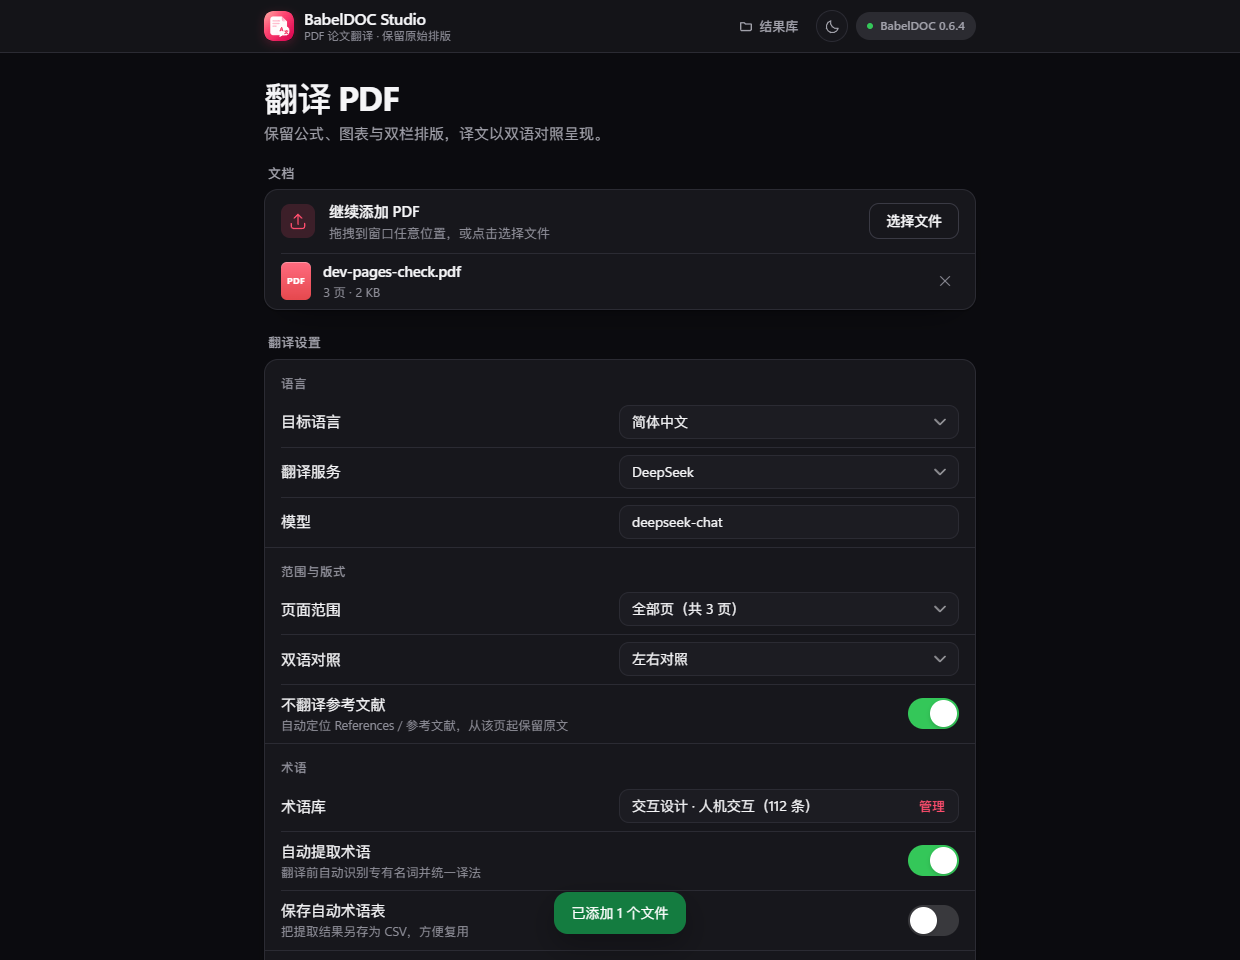
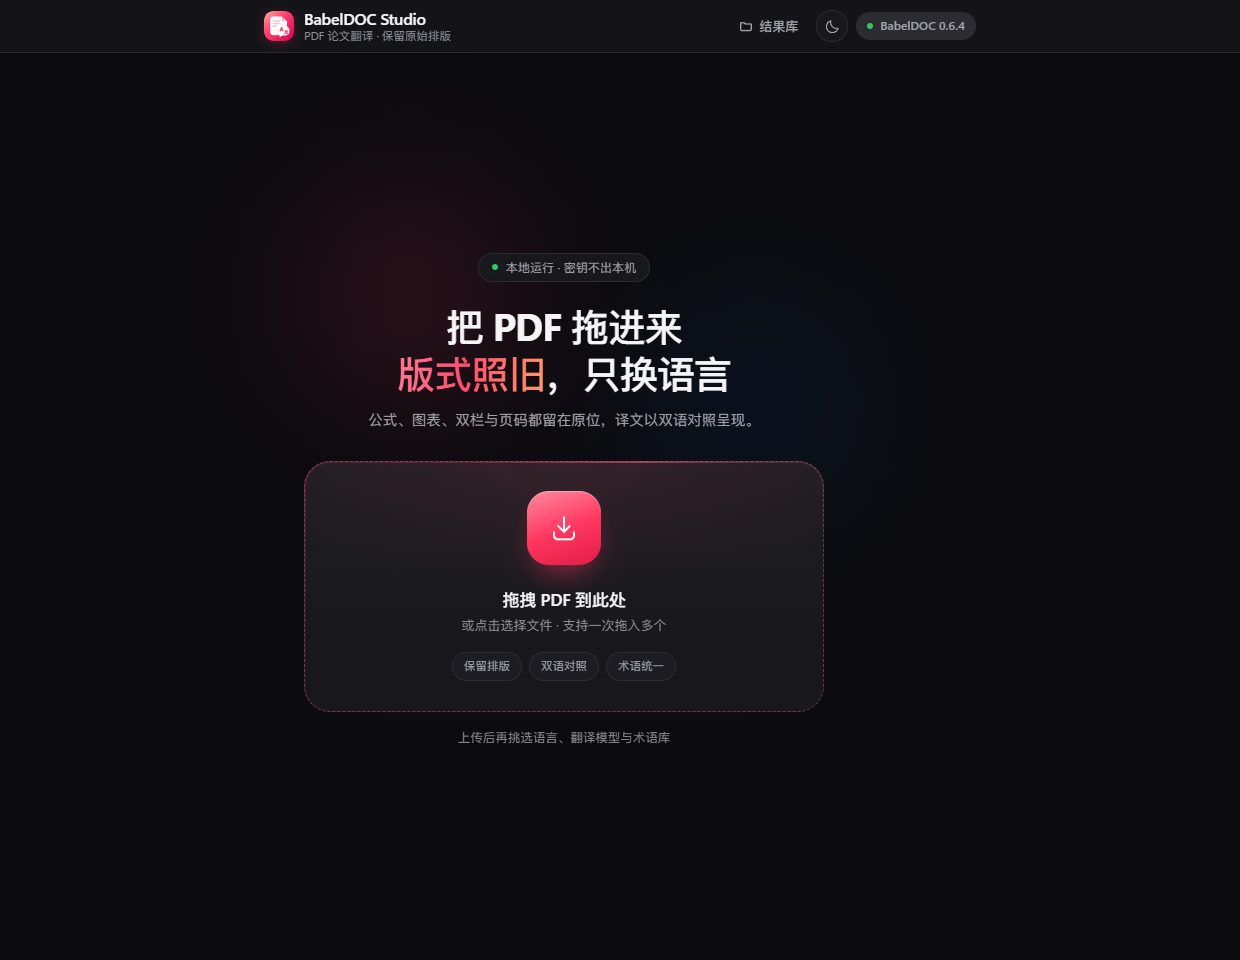
fix(home): 恢复大尺寸上传入口与标题，保留 HIG 框架

diff --git a/web/styles.css b/web/styles.css
@@ -1716,3 +1716,252 @@ input[type="search"]::-webkit-search-cancel-button { cursor: pointer; }
     scroll-behavior: auto !important;
   }
 }
+
+/* ==================================================================== *
+ * Entry hero — restored, richer drop target (the calm grouped version
+ * from 1.4 read as flat; this keeps the HIG chrome but brings back the
+ * large, inviting upload moment).
+ * ==================================================================== */
+@property --hero-angle {
+  syntax: "<angle>";
+  inherits: false;
+  initial-value: 0deg;
+}
+@keyframes hero-sweep {
+  to { --hero-angle: 360deg; }
+}
+@keyframes hero-bob {
+  0%, 100% { transform: translateY(0); }
+  50% { transform: translateY(-7px); }
+}
+@keyframes hero-drift {
+  0%, 100% { transform: translate3d(0, 0, 0) scale(1); }
+  50% { transform: translate3d(20px, -26px, 0) scale(1.09); }
+}
+
+body[data-stage="entry"] .page-head { display: none; }
+body[data-stage="entry"] .content {
+  justify-content: center;
+  padding-bottom: 40px;
+}
+
+.stage-entry .hero {
+  position: relative;
+  width: min(600px, 100%);
+  padding: 6px 0 4px;
+  display: grid;
+  justify-items: center;
+  gap: 0;
+  text-align: center;
+  isolation: isolate;
+}
+
+.stage-entry .hero-aura {
+  position: absolute;
+  inset: -70px -20px 0;
+  z-index: -1;
+  pointer-events: none;
+}
+.stage-entry .aura {
+  position: absolute;
+  border-radius: 50%;
+  filter: blur(66px);
+  opacity: 0.5;
+}
+.stage-entry .aura-a {
+  width: 300px;
+  height: 300px;
+  top: -30px;
+  left: 2%;
+  background: radial-gradient(circle, rgba(255, 55, 95, 0.5), transparent 68%);
+  animation: hero-drift 15s ease-in-out infinite;
+}
+.stage-entry .aura-b {
+  width: 260px;
+  height: 260px;
+  top: 100px;
+  right: 0;
+  background: radial-gradient(circle, rgba(10, 132, 255, 0.32), transparent 68%);
+  animation: hero-drift 19s ease-in-out infinite reverse;
+}
+
+.stage-entry .hero-badge {
+  display: inline-flex;
+  align-items: center;
+  gap: 8px;
+  height: 29px;
+  padding: 0 13px;
+  border-radius: 999px;
+  border: 1px solid var(--line);
+  background: var(--card);
+  color: var(--text-2);
+  font-size: 12px;
+  letter-spacing: 0.1px;
+  box-shadow: 0 1px 2px rgba(17, 17, 26, 0.03);
+}
+
+.stage-entry .hero-title {
+  margin: 20px 0 0;
+  font-size: clamp(27px, 4.4vw, 38px);
+  line-height: 1.24;
+  font-weight: 680;
+  letter-spacing: -0.9px;
+}
+.stage-entry .hero-title .grad {
+  background: linear-gradient(96deg, #ff7a95, var(--accent) 46%, #ff9a6b);
+  -webkit-background-clip: text;
+  background-clip: text;
+  color: transparent;
+}
+.stage-entry .hero-sub {
+  margin: 12px 0 0;
+  max-width: 30em;
+  font-size: 14.5px;
+  line-height: 1.6;
+  color: var(--text-2);
+}
+
+.stage-entry .hero-drop {
+  position: relative;
+  display: grid;
+  justify-items: center;
+  width: min(520px, 100%);
+  margin-top: 30px;
+  padding: 34px 28px 30px;
+  border: 1.5px dashed var(--line-strong);
+  border-color: color-mix(in srgb, var(--accent) 22%, var(--line-strong));
+  border-radius: 26px;
+  background:
+    linear-gradient(180deg, var(--drop-glow), transparent 72%),
+    var(--card);
+  box-shadow: 0 1px 2px rgba(17, 17, 26, 0.04), 0 18px 44px -26px rgba(17, 17, 26, 0.35);
+  cursor: pointer;
+  outline: none;
+  isolation: isolate;
+  transition:
+    transform 0.34s cubic-bezier(0.2, 0.8, 0.3, 1),
+    box-shadow 0.34s ease,
+    border-color 0.22s ease,
+    background 0.3s ease;
+}
+.stage-entry .hero-drop::after {
+  content: "";
+  position: absolute;
+  inset: 0;
+  z-index: 0;
+  border-radius: inherit;
+  background: radial-gradient(120% 90% at 50% 0%, rgba(255, 55, 95, 0.1), transparent 56%);
+  pointer-events: none;
+}
+@supports ((-webkit-mask-composite: xor) or (mask-composite: exclude)) {
+  .stage-entry .hero-drop::before {
+    content: "";
+    position: absolute;
+    inset: -1px;
+    z-index: 2;
+    padding: 2px;
+    border-radius: inherit;
+    background: conic-gradient(
+      from var(--hero-angle, 0deg),
+      transparent 0deg,
+      transparent 150deg,
+      rgba(255, 55, 95, 0.45) 245deg,
+      rgba(255, 96, 128, 0.85) 315deg,
+      transparent 360deg
+    );
+    -webkit-mask: linear-gradient(#000 0 0) content-box, linear-gradient(#000 0 0);
+    -webkit-mask-composite: xor;
+    mask: linear-gradient(#000 0 0) content-box, linear-gradient(#000 0 0);
+    mask-composite: exclude;
+    opacity: 0.6;
+    animation: hero-sweep 7.5s linear infinite;
+    transition: opacity 0.3s ease;
+    pointer-events: none;
+  }
+}
+.stage-entry .hero-drop > * { position: relative; z-index: 1; }
+.stage-entry .hero-drop:hover {
+  border-color: var(--accent);
+  transform: translateY(-2px);
+  box-shadow: 0 2px 4px rgba(17, 17, 26, 0.04), 0 26px 50px -26px rgba(255, 55, 95, 0.5);
+}
+.stage-entry .hero-drop:hover::before { opacity: 0.95; }
+.stage-entry .hero-drop:focus-visible {
+  border-color: var(--accent);
+  box-shadow: 0 0 0 5px var(--accent-ring), 0 20px 40px -24px rgba(255, 55, 95, 0.4);
+}
+.stage-entry .hero-drop.is-over {
+  border-style: solid;
+  border-color: var(--accent);
+  background: linear-gradient(180deg, var(--accent-soft), var(--card) 74%);
+  transform: scale(1.02) translateY(-2px);
+  box-shadow: 0 0 0 8px var(--accent-soft), 0 30px 60px -28px rgba(255, 55, 95, 0.55);
+}
+.stage-entry .hero-drop.is-over::before { opacity: 1; }
+.stage-entry .hero-drop.is-over .hero-icon { animation-duration: 1.2s; }
+.stage-entry .hero-drop.is-over .hero-drop-sub { color: var(--accent); }
+.stage-entry .hero-drop.is-over .hero-chips span { border-color: var(--accent-ring); color: var(--accent); }
+
+.stage-entry .hero-icon {
+  display: grid;
+  place-items: center;
+  width: 74px;
+  height: 74px;
+  border-radius: 22px;
+  color: #fff;
+  background: linear-gradient(160deg, #ff8aa0, #ff375f 52%, #e01c48);
+  box-shadow: 0 16px 32px -12px rgba(255, 55, 95, 0.6), inset 0 1px 0 rgba(255, 255, 255, 0.42);
+  animation: hero-bob 5.2s ease-in-out infinite;
+}
+
+.stage-entry .hero-drop-title {
+  margin-top: 18px;
+  font-size: 17px;
+  font-weight: 620;
+  letter-spacing: -0.2px;
+}
+.stage-entry .hero-drop-sub {
+  margin-top: 6px;
+  font-size: 13px;
+  color: var(--text-3);
+  transition: color 0.2s ease;
+}
+.stage-entry .hero-chips {
+  display: flex;
+  flex-wrap: wrap;
+  justify-content: center;
+  gap: 7px;
+  margin-top: 18px;
+}
+.stage-entry .hero-chips span {
+  padding: 4px 11px;
+  border-radius: 999px;
+  border: 1px solid var(--line);
+  background: var(--card-soft);
+  color: var(--text-2);
+  font-size: 11.5px;
+  transition: color 0.2s ease, border-color 0.2s ease;
+}
+.stage-entry .hero-foot {
+  display: block;
+  margin: 16px 0 0;
+  font-size: 12.5px;
+  color: var(--text-3);
+}
+body[data-stage="entry"] .stage-entry.stage-enter .hero-badge { animation: rise 0.5s cubic-bezier(0.2, 0.7, 0.2, 1) backwards 0.04s; }
+body[data-stage="entry"] .stage-entry.stage-enter .hero-title { animation: rise 0.56s cubic-bezier(0.2, 0.7, 0.2, 1) backwards 0.1s; }
+body[data-stage="entry"] .stage-entry.stage-enter .hero-sub { animation: rise 0.56s cubic-bezier(0.2, 0.7, 0.2, 1) backwards 0.16s; }
+body[data-stage="entry"] .stage-entry.stage-enter .hero-drop { animation: rise 0.6s cubic-bezier(0.2, 0.7, 0.2, 1) backwards 0.22s; }
+body[data-stage="entry"] .stage-entry.stage-enter .hero-foot { animation: rise 0.56s cubic-bezier(0.2, 0.7, 0.2, 1) backwards 0.3s; }
+
+@media (max-height: 760px) {
+  body[data-stage="entry"] .content { justify-content: flex-start; }
+  .stage-entry .hero-title { margin-top: 14px; font-size: clamp(24px, 3.8vw, 32px); }
+  .stage-entry .hero-drop { margin-top: 20px; padding: 24px 22px 22px; }
+  .stage-entry .hero-icon { width: 60px; height: 60px; border-radius: 18px; }
+  .stage-entry .hero-icon svg { width: 24px; height: 24px; }
+}
+@media (max-width: 560px) {
+  .stage-entry .hero-title { font-size: 25px; }
+  .stage-entry .hero-drop { padding: 26px 18px 24px; border-radius: 22px; }
+}

diff --git a/web/index.html b/web/index.html
@@ -56,31 +56,41 @@
          上传前只显示「文档」一组；设置项在上传后（.stage-work）才出现。 -->
     <section class="stage stage-entry" id="stage-entry" aria-label="添加 PDF">
       <div class="hero">
-        <section class="group" aria-labelledby="entry-doc-title">
-          <h3 class="group-title" id="entry-doc-title">文档</h3>
-          <div class="group-card hero-card">
-            <div class="hero-drop" id="hero-drop" role="button" tabindex="0"
-                 aria-label="拖拽 PDF 到此处，或点击选择文件">
-              <span class="hero-icon" aria-hidden="true">
-                <svg viewBox="0 0 24 24" width="26" height="26" fill="none" stroke="currentColor"
-                     stroke-width="1.6" stroke-linecap="round" stroke-linejoin="round">
-                  <path d="M12 3.5v10.5"/>
-                  <path d="m7.8 10 4.2 4.2L16.2 10"/>
-                  <path d="M4 15.2v2.9A2.9 2.9 0 0 0 6.9 21h10.2a2.9 2.9 0 0 0 2.9-2.9v-2.9"/>
-                </svg>
-              </span>
-              <strong class="hero-drop-title" id="hero-drop-title">拖拽 PDF 到此处</strong>
-              <span class="hero-drop-sub">或点击选择文件 · 支持一次拖入多个</span>
-              <span class="hero-chips" aria-hidden="true">
-                <span>保留排版</span><span>双语对照</span><span>术语统一</span>
-              </span>
-            </div>
-          </div>
-          <p class="hero-foot">
-            <span class="hero-foot-item"><i class="beacon" aria-hidden="true"></i>本地运行 · 密钥不出本机</span>
-            <span class="hero-foot-item">上传后再挑选语言、翻译模型与术语库</span>
-          </p>
-        </section>
+        <div class="hero-aura" aria-hidden="true">
+          <span class="aura aura-a"></span>
+          <span class="aura aura-b"></span>
+        </div>
+
+        <span class="hero-badge">
+          <i class="beacon" aria-hidden="true"></i>本地运行 · 密钥不出本机
+        </span>
+
+        <h2 class="hero-title">
+          把 PDF 拖进来<br>
+          <span class="grad">版式照旧</span>，只换语言
+        </h2>
+        <p class="hero-sub">公式、图表、双栏与页码都留在原位，译文以双语对照呈现。</p>
+
+        <div class="hero-drop" id="hero-drop" role="button" tabindex="0"
+             aria-label="拖拽 PDF 到此处，或点击选择文件">
+          <span class="hero-icon" aria-hidden="true">
+            <svg viewBox="0 0 24 24" width="30" height="30" fill="none" stroke="currentColor"
+                 stroke-width="1.6" stroke-linecap="round" stroke-linejoin="round">
+              <path d="M12 3.5v11"/>
+              <path d="m7.5 10.5 4.5 4.5 4.5-4.5"/>
+              <path d="M4 15.4v2.7A2.9 2.9 0 0 0 6.9 21h10.2a2.9 2.9 0 0 0 2.9-2.9v-2.7"/>
+            </svg>
+          </span>
+          <strong class="hero-drop-title" id="hero-drop-title">拖拽 PDF 到此处</strong>
+          <span class="hero-drop-sub">或点击选择文件 · 支持一次拖入多个</span>
+          <span class="hero-chips" aria-hidden="true">
+            <span>保留排版</span><span>双语对照</span><span>术语统一</span>
+          </span>
+        </div>
+
+        <p class="hero-foot">上传后再挑选语言、翻译模型与术语库</p>
+      </div>
+    </section>
       </div>
     </section>
 
